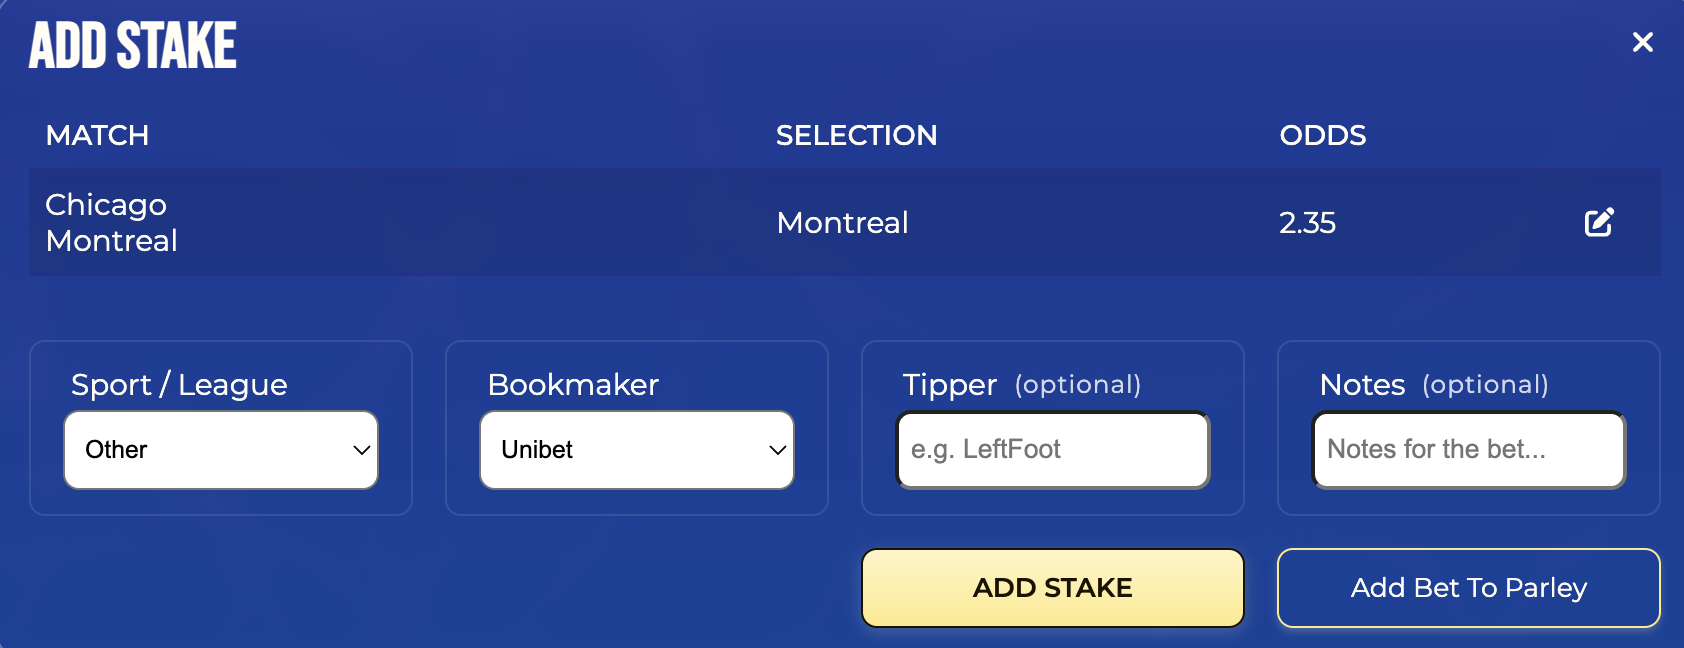
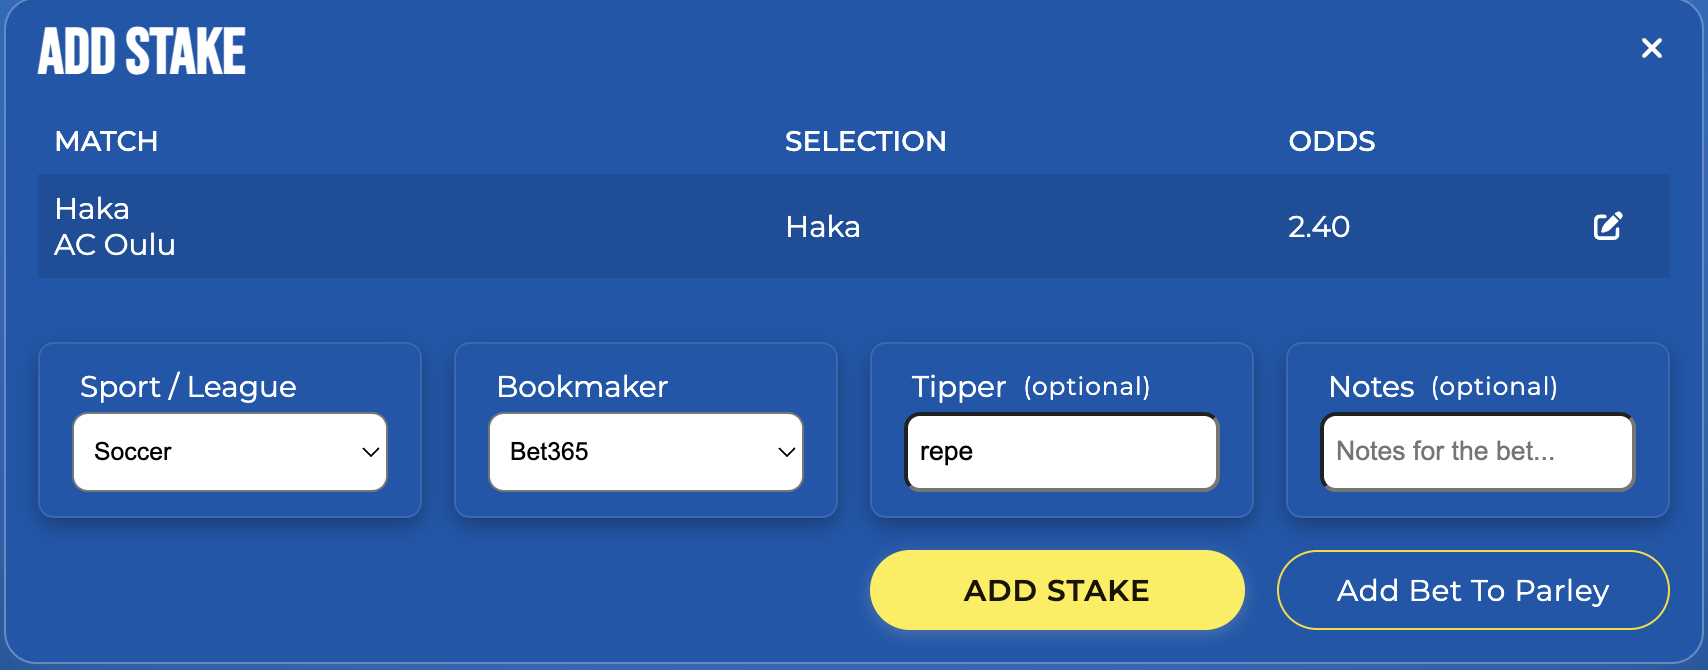
style fixes. Github actions next

diff --git a/client/src/components/common/fallback/UnderCons.tsx b/client/src/components/common/fallback/UnderCons.tsx
@@ -1,6 +1,6 @@
 import "./UnderCons.css";
 
-import { faArrowRight } from "@fortawesome/free-solid-svg-icons";
+import { faArrowLeft } from "@fortawesome/free-solid-svg-icons";
 import { FontAwesomeIcon } from "@fortawesome/react-fontawesome";
 import { useNavigate } from "react-router-dom";
 
@@ -10,6 +10,14 @@ import { Button } from "../button/Button";
 export const UnderCons = () => {
   const navigate = useNavigate();
 
+  const navigateBack = () => {
+    if (window.history.length > 1) {
+      navigate(-1);
+    } else {
+      navigate("/");
+    }
+  };
+
   return (
     <div className="under-cons-component">
       <h2>Nothing here yet</h2>
@@ -18,13 +26,13 @@ export const UnderCons = () => {
       <p>Check back later...</p>
       <Button
         className="btn btn-outline under-cons-component-button"
-        onClick={() => navigate("/")}
+        onClick={navigateBack}
         type="button"
         width="max-content"
         margin="1rem 0 0"
       >
-        <p>Back to Homepage</p>
-        <FontAwesomeIcon icon={faArrowRight} />
+        <FontAwesomeIcon icon={faArrowLeft} />
+        <p>Go Back</p>
       </Button>
     </div>
   );

diff --git a/client/src/pages/homepage/Homepage.tsx b/client/src/pages/homepage/Homepage.tsx
@@ -41,7 +41,8 @@ export const Homepage = () => {
       <section className="hero-section">
         <div className="hero-wrapper wrapper">
           <div className="hero-text">
-            <h4>Discover the Bet Tracking Platform 10+ Users Love</h4>
+            {/* <h4>Discover the Bet Tracking Platform 10+ Users Love</h4> */}
+            <h4>Discover the Bet Tracking Platform that everyone Loves</h4>
             <div className="hero-slogan">
               <h1>Track your bets online without annoying excel sheets!</h1>
               <p>
@@ -77,7 +78,6 @@ export const Homepage = () => {
             imageWidth="80%"
             extraClass="span2"
           />
-          {isMobile && <Divider />}
           <div className="home-feature-addbet">
             <figure className="addbet-feature">
               <p>

diff --git a/client/src/pages/bets/Bets.tsx b/client/src/pages/bets/Bets.tsx
@@ -39,7 +39,7 @@ export const Bets = () => {
   } = useGetBetsQuery(undefined, {
     refetchOnMountOrArgChange: true,
   });
-  const [visibleCount, setVisibleCount] = useState(10);
+  const [visibleCount, setVisibleCount] = useState(5);
 
   const [currentSort, setCurrentSort] = useState<SortOption>({
     field: "date",
@@ -129,9 +129,9 @@ export const Bets = () => {
             <Button
               type="button"
               className="btn btn-outline"
-              children="Show 10 more"
+              children="Show 5 more"
               width="min(15rem, 100%)"
-              onClick={() => setVisibleCount((prev) => prev + 10)}
+              onClick={() => setVisibleCount((prev) => prev + 5)}
             />
             <Button
               type="button"

diff --git a/client/src/components/common/button/Button.css b/client/src/components/common/button/Button.css
@@ -52,6 +52,7 @@
 .btn-outline {
   border: 1px solid var(--accent);
   border-radius: 0.5rem;
+  border-radius: 2.5rem;
   padding: 0.5rem 1.5rem;
 
   text-transform: capitalize;
@@ -81,6 +82,7 @@
 .btn-special {
   border: 1px solid transparent;
   border-radius: 0.5rem;
+  border-radius: 2.5rem;
   padding: 0.5rem 1.5rem;
 
   text-transform: capitalize;
@@ -102,6 +104,7 @@
 .btn-filled,
 .btn-primary-color {
   border-radius: 8px;
+  border-radius: 2.5rem;
   box-shadow: 0 2px 8px hsla(47, 100%, 87%, 0.2);
 
   color: var(--text-dark);
@@ -287,7 +290,8 @@
 .btn-oauth {
   border: thin solid var(--primary-500);
   border-radius: 8px;
-  box-shadow: var(--shadow-s);
+  border-radius: 2.5rem;
+  /* box-shadow: var(--shadow-s); */
   width: 100%;
   height: 2.5rem;
 

diff --git a/client/src/pages/add-bet/add-stake-form/AddStakeForm.css b/client/src/pages/add-bet/add-stake-form/AddStakeForm.css
@@ -45,8 +45,6 @@
   color: var(--secondary-xlight);
   align-items: center;
 
-  border-bottom: 1px solid rgba(43, 43, 145, 0.8);
-
   @media screen and (max-width: 800px) {
     grid-template-columns:
       minmax(150px, 1.5fr) minmax(80px, 1fr) minmax(40px, 0.5fr)
@@ -57,6 +55,11 @@
 .finish-mybet-slip {
   background-color: rgba(0, 0, 0, 0.1);
   font-size: var(--font-small);
+  border-bottom: 1px solid rgba(43, 43, 145, 0.5);
+}
+
+.finish-mybet-slip:last-of-type {
+  border-bottom: none;
 }
 
 .mybet-match,

diff --git a/client/src/pages/add-bet/AddBet.tsx b/client/src/pages/add-bet/AddBet.tsx
@@ -1,3 +1,5 @@
+import "./AddBet.css";
+
 import { useAddBetForm } from "../../hooks/useAddBetForm";
 import { AddBetForm } from "./add-bet-form/AddBetForm";
 import { AddStakeForm } from "./add-stake-form/AddStakeForm";
@@ -7,7 +9,7 @@ export const AddBet = () => {
     useAddBetForm();
 
   return (
-    <div className="wrapper grid-row-2">
+    <div className="wrapper grid-row-2 addbet-page">
       <AddBetForm
         myBet={myBet}
         setMyBet={setMyBet}

diff --git a/client/src/pages/homepage/Homepage.css b/client/src/pages/homepage/Homepage.css
@@ -167,6 +167,11 @@
     font-weight: bold;
   }
 
+  & img {
+    border-radius: 0.5rem;
+    box-shadow: var(--box-shadow);
+  }
+
   @media (width < 1000px) {
     width: 100%;
   }
@@ -294,10 +299,10 @@
   }
 
   @media only screen and (max-width: 581px) {
-    flex-direction: column;
+    /* flex-direction: column;
     height: 10rem;
     width: 10rem;
-    padding: 1rem 2rem;
+    padding: 1rem 2rem; */
     gap: 1rem;
     font-size: 0.925rem;
   }

diff --git a/client/src/pages/add-bet/add-stake-form/BetToStake.css b/client/src/pages/add-bet/add-stake-form/BetToStake.css
@@ -1,5 +1,4 @@
 .finish-mybet-slip-headers {
-  border-bottom: 1px solid rgba(43, 43, 145, 0.8);
   text-transform: uppercase;
   font-size: var(--font-smaller);
   font-weight: 500;
@@ -14,8 +13,6 @@
   padding: 8px 0;
   color: var(--secondary-xlight);
   align-items: center;
-
-  border-bottom: 1px solid rgba(43, 43, 145, 0.8);
 
   @media screen and (max-width: 800px) {
     grid-template-columns:

diff --git a/client/src/index.css b/client/src/index.css
@@ -258,6 +258,7 @@ a {
   --warning-xlight: hsla(37, 100%, 92%, 1);
 
   /* Box Shadow */
+  --shadow-xs: 0 4px 8px rgba(0, 0, 0, 0.2), 0 4px 16px rgba(0, 0, 0, 0.1);
   --shadow-s: 0 4px 8px rgba(0, 0, 0, 0.3), 0 4px 16px rgba(0, 0, 0, 0.2);
   --shadow-m: 0px 4px 16px hsla(228, 100%, 81%, 0.4);
   --shadow-l: 0 4px 8px rgba(0, 0, 0, 0.4), 0 4px 16px rgba(0, 0, 0, 0.25);

diff --git a/client/src/pages/login-register/LoginRegister.css b/client/src/pages/login-register/LoginRegister.css
@@ -59,7 +59,7 @@
   }
 }
 
-.btn-oauth {
+/* .btn-oauth {
   border: thin solid var(--primary-500);
   border-radius: 8px;
   box-shadow: var(--shadow-s);
@@ -74,7 +74,7 @@
   &:hover {
     background-color: var(--primary-900);
   }
-}
+} */
 
 .login-p {
   font-size: var(--font-smaller);

diff --git a/client/src/pages/homepage/FeatureCard.css b/client/src/pages/homepage/FeatureCard.css
@@ -24,8 +24,8 @@
   & img {
     /* aspect-ratio: 16 / 9; */
     overflow: hidden;
-    border-radius: 16px;
-    box-shadow: 0 8px 32px hsla(232, 100%, 74%, 0.2);
+    border-radius: 0.5rem;
+    box-shadow: var(--box-shadow);
   }
 }
 

diff --git a/client/src/pages/add-bet/add-bet-form/AddBetForm.css b/client/src/pages/add-bet/add-bet-form/AddBetForm.css
@@ -8,6 +8,7 @@
   box-shadow: var(--shadow-xl);
   padding: 8px 16px 16px;
   backdrop-filter: blur(8px);
+  background: var(--primary-700);
 
   display: grid;
   grid-template-rows: max-content 1fr;
